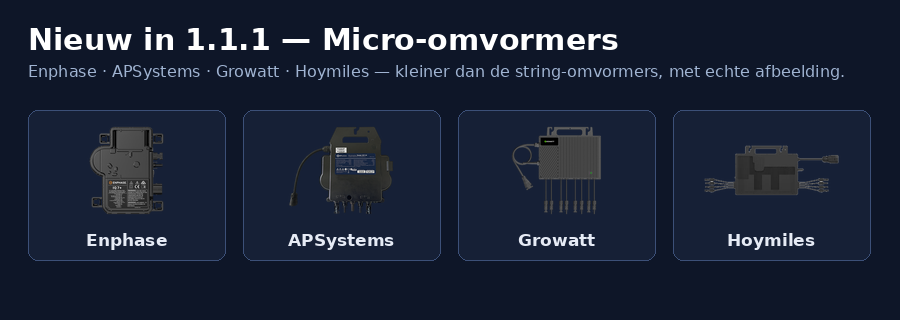
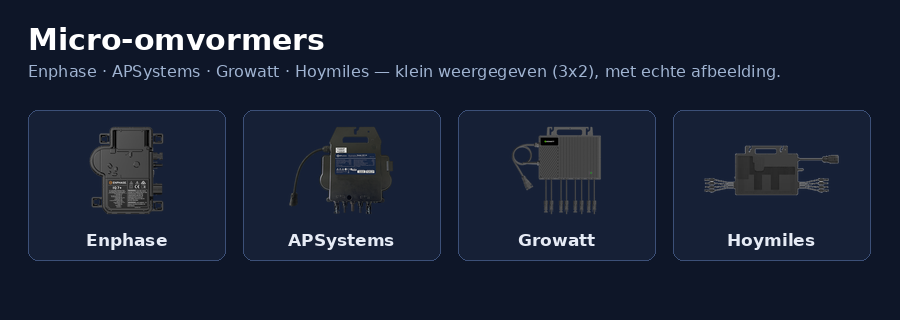
Update V1.1.2

Changed region(s): [[0.0311, 0.0625, 0.6844, 0.1562], [0.4667, 0.1875, 0.9333, 0.25]]

diff --git a/release-notes-v1.1.2.md b/release-notes-v1.1.2.md
@@ -1,0 +1,34 @@
+# Solar Layout Card v1.1.2
+
+Kleine vervolgrelease op 1.1.1 met drie aanpassingen uit de feedback.
+
+## Nieuw
+- **Bolletjes aan/uit** — de bewegende bolletjes over de verbindingslijnen zijn nu te
+  configureren met de optie `flow_dots` (standaard aan). In de editor zit er een checkbox
+  "Bewegende bolletjes" bij de verbindingsopties.
+- **Slaap-icoon (Zzz)** — als de zon onder is en een omvormer heeft een sensor die 0 meet,
+  verschijnt er een klein slaap-icoon op die omvormer. Dit geldt voor zowel string-omvormers
+  als micro-omvormers en is het spiegelbeeld van de rode 0 W-waarschuwing op panelen overdag.
+
+## Gewijzigd
+- **Micro-omvormer kleiner** — nu 3 cellen breed en 2 hoog (was 4x3). Het vak volgt daardoor
+  de verhouding van de afbeelding en oogt compacter.
+
+## Compatibiliteit
+- Bestaande configuraties blijven werken zonder wijzigingen.
+- `flow_dots` staat standaard aan en wordt alleen in de config weggeschreven als je het uitzet.
+- Het slaap-icoon verschijnt alleen als er echt een sensor is die 0 meet bij zon-onder; zonder
+  sensor verandert er niets.
+
+## Let op: dit bestand haalt de repo ook bij
+De v1.1.1 JavaScript is destijds niet naar de repo gecommit (alleen de docs stonden op 1.1.1).
+Deze v1.1.2-build bevat alle v1.1.1-functies plus het bovenstaande, dus door dit ene
+`dist/solar-layout-card.js` te committen loopt de repo weer volledig gelijk.
+
+## Installatie / update
+1. Werk de card bij via HACS.
+2. Doe daarna een harde browser-refresh (of leeg de `.gz`-cache in
+   `www/community/solar-layout-card/`) zodat de nieuwe versie geladen wordt.
+
+Maak in GitHub een release aan met de tag `v1.1.2` (schone semver, geen pre-release,
+"latest" aan). Een zip-asset is niet nodig; HACS haalt `dist/solar-layout-card.js` uit de tag.

diff --git a/README.md b/README.md
@@ -1,7 +1,7 @@
 # Solar Layout Card
 
 ![hacs](https://img.shields.io/badge/HACS-Dashboard-41BDF5.svg)
-![version](https://img.shields.io/badge/version-1.1.1-f4c40f.svg)
+![version](https://img.shields.io/badge/version-1.1.2-f4c40f.svg)
 
 Een Home Assistant Lovelace-card die een legplan van je zonnepanelen toont, met de
 live PV-opbrengst in elk paneel. Panelen zijn per stuk portrait of landscape
@@ -22,11 +22,12 @@ te plaatsen en de indeling maak je met een drag and drop editor.
 - Meerdere legplannen via tabbladen (standaard Layout1, Layout2, ...); bij een enkel plan blijven tabbladen verborgen.
 - Omvormers plaatsbaar in het legplan (GoodWe, SolarEdge, Growatt, Solis, Sunsynk), met optionele sensor.
 - Rode waarschuwing op een paneel dat overdag 0 W meet (via sun.sun).
+- Slaap-icoon (Zzz) op een omvormer wanneer de zon onder is en de gekoppelde sensor 0 meet.
 - Omvormers met echte afbeelding (GoodWe, SolarEdge, Growatt, Solis, Sunsynk).
 - Verbindingslijnen tussen panelen en naar de omvormer, recht of gebogen.
-- Stromende bolletjes over de verbindingslijnen, die af en toe langs de lijn lopen.
+- Stromende bolletjes over de verbindingslijnen (aan/uit te zetten in de config).
 - Kleur per verbindingslijn instelbaar (standaard amber).
-- Micro-omvormers plaatsbaar naast de gewone omvormers (Enphase, APSystems, Growatt, Hoymiles), kleiner weergegeven dan de string-omvormers en met echte afbeelding.
+- Micro-omvormers plaatsbaar naast de gewone omvormers (Enphase, APSystems, Growatt, Hoymiles), klein weergegeven (3x2 cellen) en met echte afbeelding.
 - Zoom per legplan; verberg-opties voor omvormer-afbeelding/label/sensor.
 - Portrait/landscape per paneel.
 - Visuele editor met slepen en snap-to-grid.
@@ -79,6 +80,7 @@ panels:
 | `inv_hide_image` | bool | `false` | Verberg de omvormer-afbeelding (alle omvormers). |
 | `inv_hide_label` | bool | `false` | Verberg het omvormer-label. |
 | `inv_hide_sensor`| bool | `false` | Verberg de omvormer-sensorwaarde. |
+| `flow_dots`  | bool | `true`  | Bewegende bolletjes over de verbindingslijnen aan/uit. |
 | `connections` | list | `[]`     | Lijnen tussen items; elk met `from`, `to`, `curved` en `color`. |
 | `layouts`   | list   | -         | Meerdere legplannen; elk met `name`, `panels`, `inverters`, `connections`, `zoom`. |
 
@@ -88,6 +90,10 @@ Per paneel: `id`, `x`, `y` (rastercoordinaten), `orientation` (`portrait`/`lands
 Per omvormer: `id`, `x`, `y`, `brand`, `entity` (optioneel), `label`. Zet `micro: true` voor
 een micro-omvormer; het merk is dan een van `enphase`, `apsystems`, `growatt`, `hoymiles`.
 Zonder `micro` is het een string-omvormer (`goodwe`, `solaredge`, `growatt`, `solis`, `sunsynk`).
+
+Als een omvormer een sensor heeft die 0 meet terwijl de zon onder is, verschijnt er een
+klein slaap-icoon (Zzz) op de omvormer. Dit is het spiegelbeeld van de rode 0 W-waarschuwing
+die panelen overdag krijgen.
 
 Per verbinding: `from`, `to` (paneel- of omvormer-`id`), `curved` (recht of gebogen) en
 `color` (lijnkleur, standaard `#ffd54a`).

diff --git a/CHANGELOG.md b/CHANGELOG.md
@@ -4,6 +4,15 @@ Alle noemenswaardige wijzigingen aan deze card worden hier bijgehouden.
 Formaat volgt [Keep a Changelog](https://keepachangelog.com/) en
 [Semantic Versioning](https://semver.org/).
 
+## [1.1.2] - 2026-07-11
+### Toegevoegd
+- De bewegende bolletjes zijn nu aan/uit te zetten via de nieuwe optie `flow_dots` (standaard aan). In de editor staat er een checkbox "Bewegende bolletjes" bij de verbindingsopties.
+- Slaap-icoon (Zzz) op een omvormer wanneer de zon onder is en de gekoppelde sensor 0 meet. Werkt voor zowel string-omvormers als micro-omvormers. Dit is het spiegelbeeld van de rode 0 W-waarschuwing die panelen overdag krijgen.
+### Gewijzigd
+- Micro-omvormers worden nog wat kleiner weergegeven: 3 cellen breed en 2 hoog (was 4x3), zodat het vak de verhouding van de afbeelding volgt en compacter oogt.
+### Opmerkingen
+- Bestaande configuraties blijven werken: `flow_dots` staat standaard aan en wordt alleen weggeschreven als je het uitzet.
+
 ## [1.1.1] - 2026-07-11
 ### Toegevoegd
 - Micro-omvormers zijn nu plaatsbaar naast de gewone omvormers, via een aparte knop "+ Micro-omvormer" in de editor. Merken: Enphase, APSystems, Growatt en Hoymiles, elk met een echte, ingebedde afbeelding. Micro-omvormers worden kleiner weergegeven dan de string-omvormers zodat ze als een ander type herkenbaar zijn.